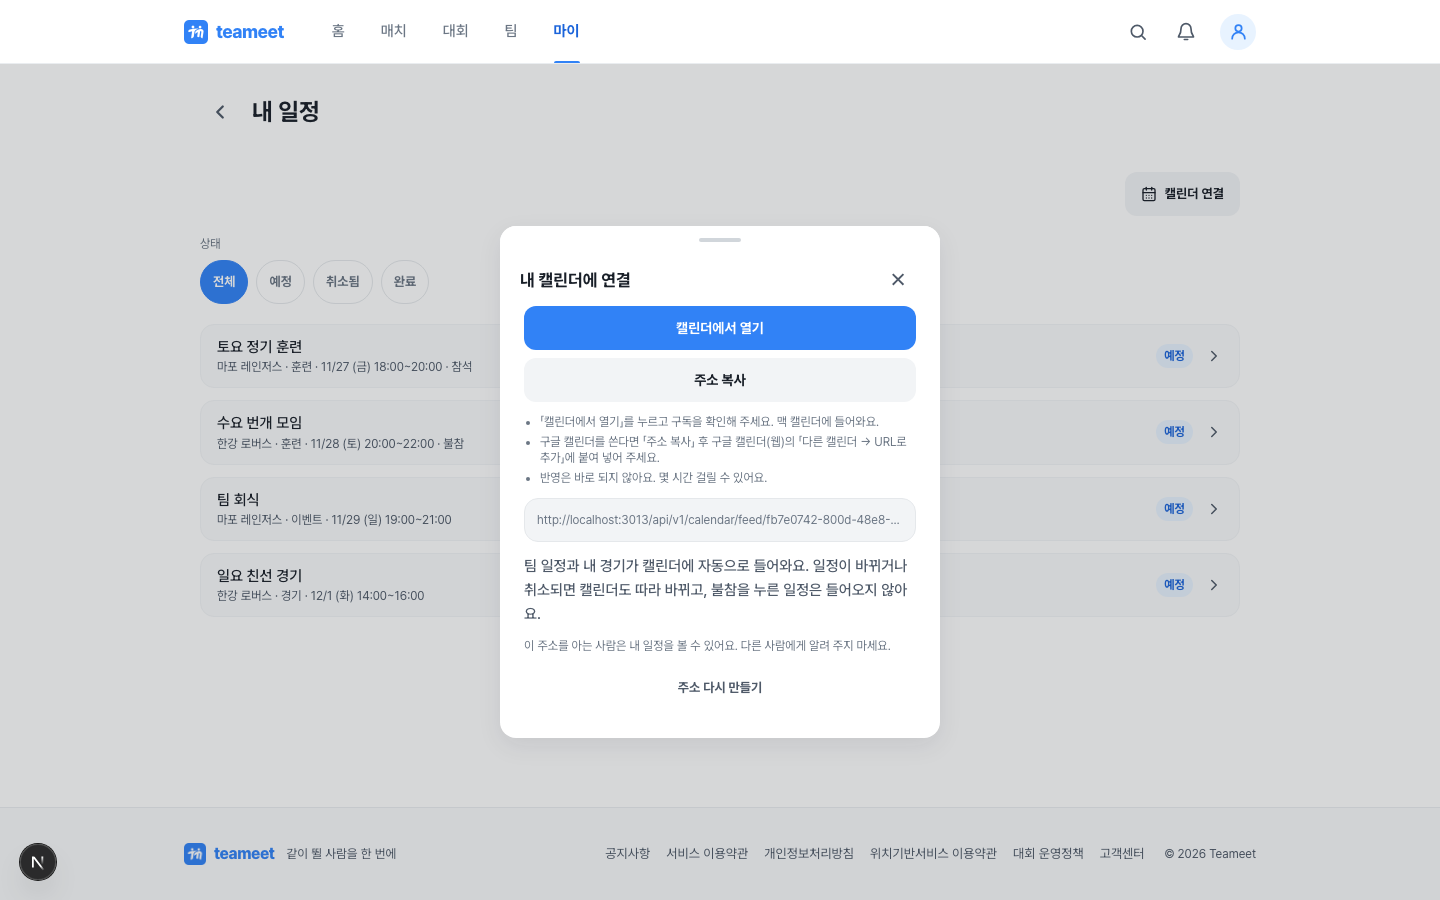
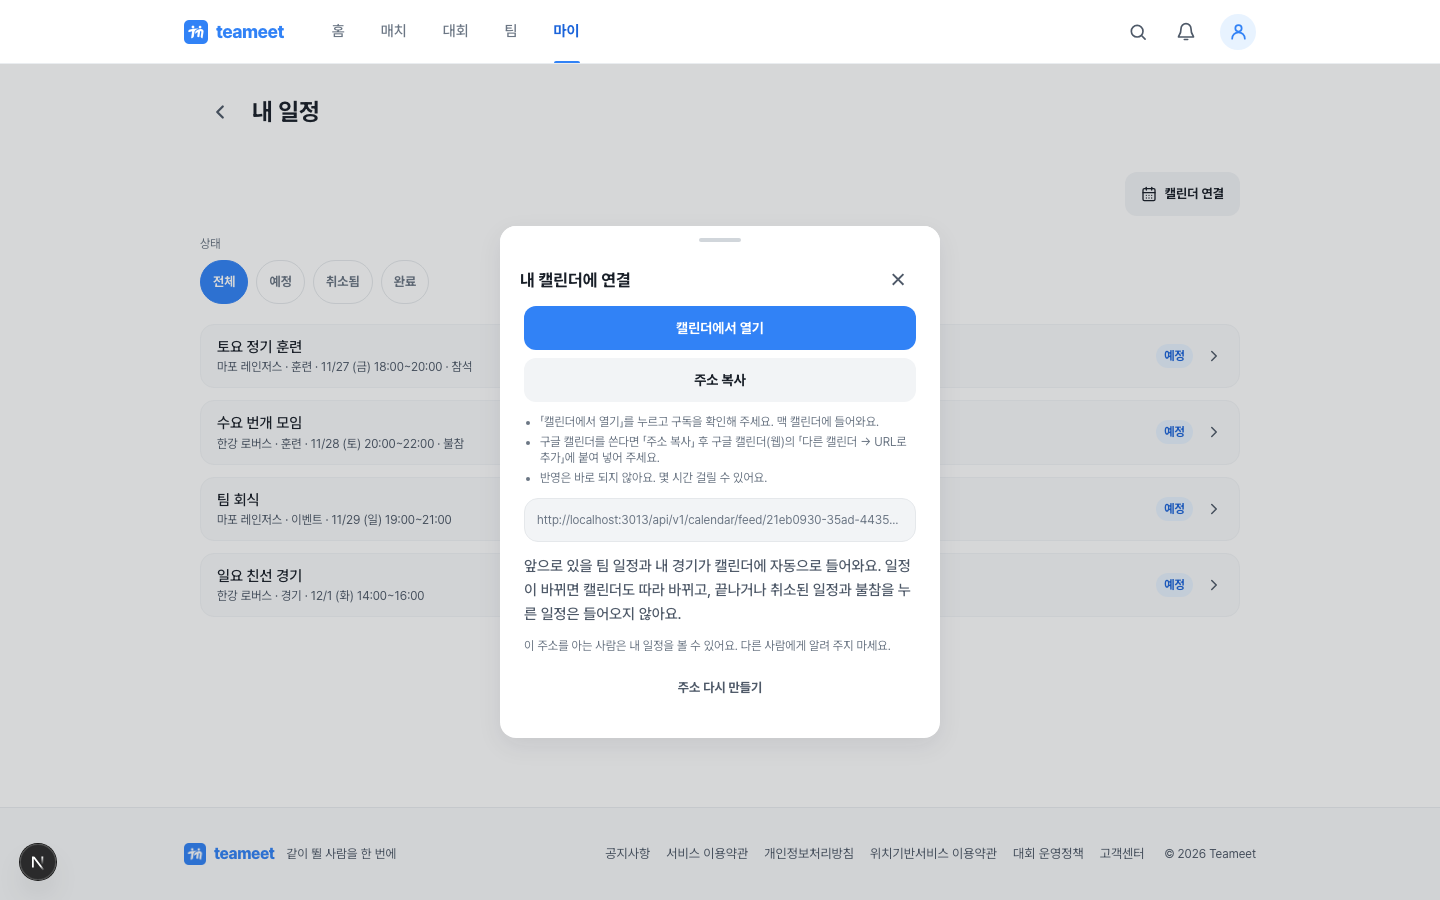
fix: 캘린더 구독은 예정 일정만 넣고, 아이폰 버튼 문구를 「캘린더에서 열기」로 바꾼다
- 구독: state=SCHEDULED 이고 아직 끝나지 않은 팀 일정, 모집 중·마감 상태에서 안 끝난 개인 매치만(완료·취소·끝난 일정은 제외)
- 아이폰·맥 버튼 문구를 「캘린더에서 열기」로 통일(「폰」 단어 제거), 설명 문구 갱신

Changed region(s): [[0.3438, 0.6222, 0.625, 0.6844], [0.5312, 0.56, 0.625, 0.5911]]

diff --git a/apps/v1_api/test/calendar-feed/calendar-feed.integration-spec.ts b/apps/v1_api/test/calendar-feed/calendar-feed.integration-spec.ts
@@ -7,7 +7,7 @@ import { createV1IntegrationApp } from '../integration/integration-app';
 
 const DAY = 24 * 60 * 60 * 1_000;
 
-/** 폰 캘린더 구독: 내 일정만, 불참은 빼고, 취소는 취소로, 주소를 다시 만들면 옛 주소는 못 쓴다. */
+/** 캘린더 구독: 내 일정 중 아직 끝나지 않은 「예정」만, 불참은 빼고, 주소를 다시 만들면 옛 주소는 못 쓴다. */
 describe('캘린더 구독 주소 HTTP/DB 계약', () => {
   let app: INestApplication;
   let cleanup: (() => Promise<void>) | undefined;
@@ -60,11 +60,11 @@ describe('캘린더 구독 주소 HTTP/DB 계약', () => {
     });
 
     const now = Date.now();
-    const make = async (key: string, teamId: string, data: { title: string; startOffsetDays: number; state?: 'SCHEDULED' | 'CANCELLED'; type?: 'TRAINING' | 'EVENT' | 'MATCH'; teamMatchId?: string; cancelReason?: string }) => {
+    const make = async (key: string, teamId: string, data: { title: string; startOffsetDays: number; state?: 'SCHEDULED' | 'CANCELLED' | 'COMPLETED'; durationHours?: number; type?: 'TRAINING' | 'EVENT' | 'MATCH'; teamMatchId?: string; cancelReason?: string }) => {
       const startAt = new Date(now + data.startOffsetDays * DAY);
       sched[key] = (await db.v1TeamSchedule.create({
         data: {
-          teamId, title: data.title, type: data.type ?? 'TRAINING', startAt, endAt: new Date(startAt.getTime() + 2 * 60 * 60 * 1_000),
+          teamId, title: data.title, type: data.type ?? 'TRAINING', startAt, endAt: new Date(startAt.getTime() + (data.durationHours ?? 2) * 60 * 60 * 1_000),
           timezone: 'Asia/Seoul', state: data.state ?? 'SCHEDULED', teamMatchId: data.teamMatchId ?? null, cancelReason: data.cancelReason ?? null,
         },
       })).id;
@@ -77,6 +77,9 @@ describe('캘린더 구독 주소 HTTP/DB 계약', () => {
     });
     await make('training', team1, { title: `팀하나 훈련-${tag}`, startOffsetDays: 2 });
     await make('cancelled', team1, { title: `팀하나 취소-${tag}`, startOffsetDays: 4, state: 'CANCELLED', type: 'EVENT', cancelReason: '우천' });
+    await make('completed', team1, { title: `팀하나 완료-${tag}`, startOffsetDays: -1, state: 'COMPLETED' });
+    await make('endedScheduled', team1, { title: `팀하나 지난예정-${tag}`, startOffsetDays: -3 });
+    await make('inProgress', team1, { title: `팀하나 진행중-${tag}`, startOffsetDays: -30 / (24 * 60), durationHours: 3 });
     await make('notGoing', team1, { title: `팀하나 불참-${tag}`, startOffsetDays: 5 });
     await make('far', team1, { title: `팀하나 먼미래-${tag}`, startOffsetDays: 400 });
     await make('match', team1, { title: `팀하나 경기-${tag}`, startOffsetDays: 3, type: 'MATCH', teamMatchId: teamMatch.id });
@@ -127,7 +130,7 @@ describe('캘린더 구독 주소 HTTP/DB 계약', () => {
     await request(app.getHttpServer()).get('/api/v1/me/calendar-feed').expect(401);
   });
 
-  it('로그인 없이 구독 주소로 읽으면 내 일정만 들어 있다: 불참·범위 밖·다른 사람 일정은 빠지고 취소는 취소로 남는다', async () => {
+  it('로그인 없이 구독 주소로 읽으면 내 예정 일정만 들어 있다: 불참·취소·완료·끝난 예정·범위 밖·다른 사람 일정은 빠진다', async () => {
     const { feedUrl } = (await as(userA).post('/me/calendar-feed').expect(201)).body.data;
     const res = await readFeed(feedUrl).expect(200);
     expect(res.headers['content-type']).toContain('text/calendar');
@@ -139,9 +142,12 @@ describe('캘린더 구독 주소 HTTP/DB 계약', () => {
     expect(ics).toContain(`UID:schedule-${sched.training}@teameet.co.kr`);
     expect(ics).not.toContain(`팀하나 불참-${tag}`);
     expect(ics).not.toContain(`팀하나 먼미래-${tag}`);
-    const cancelled = ics.split('BEGIN:VEVENT').find((block) => block.includes(`schedule-${sched.cancelled}@`));
-    expect(cancelled).toContain('STATUS:CANCELLED');
-    expect(cancelled).toContain('우천');
+    // 예정만 들어간다 — 취소·완료·끝난 예정은 빠지고, 진행 중인 일정은 들어간다.
+    expect(ics).not.toContain(`팀하나 취소-${tag}`);
+    expect(ics).not.toContain('STATUS:CANCELLED');
+    expect(ics).not.toContain(`팀하나 완료-${tag}`);
+    expect(ics).not.toContain(`팀하나 지난예정-${tag}`);
+    expect(ics).toContain(`팀하나 진행중-${tag}`);
     // 팀 매치 일정은 경기장을 장소로 싣는다.
     expect(ics.split('BEGIN:VEVENT').find((block) => block.includes(`schedule-${sched.match}@`))).toContain('LOCATION:마포 풋살장');
     // 참가 확정한 개인 매치만 들어간다(취소한 참가는 제외).

diff --git a/apps/v1_api/src/calendar-feed/calendar-feed.service.ts b/apps/v1_api/src/calendar-feed/calendar-feed.service.ts
@@ -1,5 +1,5 @@
 import { Injectable, NotFoundException, ServiceUnavailableException } from '@nestjs/common';
-import { Prisma, V1AttendanceStatus, V1ScheduleType } from '@prisma/client';
+import { Prisma, V1AttendanceStatus, V1ScheduleState, V1ScheduleType } from '@prisma/client';
 import type { V1AuthUser } from '../auth/v1-auth-user';
 import { PrismaService } from '../prisma/prisma.service';
 import { MATCH_SCHEDULE_DEFAULT_DURATION_MS } from '../team-schedules/team-match-schedule';
@@ -8,9 +8,10 @@ import { isUsableAccessTokenSecret, issueAccessToken, parseAccessToken } from '.
 import { buildIcs, type IcsEvent } from './ics';
 
 const DAY_MS = 24 * 60 * 60 * 1_000;
-/** 구독 캘린더에 싣는 범위: 지난 2주 ~ 앞으로 6개월. */
-const FEED_PAST_MS = 14 * DAY_MS;
+/** 구독 캘린더에는 아직 끝나지 않은 「예정」만, 앞으로 6개월 안까지 싣는다(2026-11-24). */
 const FEED_FUTURE_MS = 180 * DAY_MS;
+/** 끝 시각이 없는 개인 매치는 시작 후 이 시간까지 진행 중으로 본다. */
+const OPEN_ENDED_MATCH_GRACE_MS = 2 * 60 * 60 * 1_000;
 const FEED_MAX_EVENTS = 1_000;
 const LAST_USED_TOUCH_MS = 10 * 60 * 1_000;
 const CALENDAR_NAME = 'Teameet';
@@ -112,7 +113,6 @@ export class CalendarFeedService {
   // ── 일정 모으기 ────────────────────────────────────────────────────────────
 
   private async feedEvents(userId: string, now: Date): Promise<IcsEvent[]> {
-    const from = new Date(now.getTime() - FEED_PAST_MS);
     const to = new Date(now.getTime() + FEED_FUTURE_MS);
 
     const memberships = await this.prisma.v1TeamMembership.findMany({
@@ -128,7 +128,10 @@ export class CalendarFeedService {
         : await this.prisma.v1TeamSchedule.findMany({
             where: {
               teamId: { in: teamIds },
-              startAt: { gte: from, lte: to },
+              // 「예정」이고 아직 끝나지 않은 것만 — 진행 중인 일정은 넣고, 끝났거나 완료·취소된 일정은 뺀다.
+              state: V1ScheduleState.SCHEDULED,
+              endAt: { gte: now },
+              startAt: { lte: to },
               AND: [await visibleTeamMatchScheduleWhere(this.prisma, teamIds)],
               // 불참을 누른 일정은 내 캘린더에 넣지 않는다. 응답이 없거나 대기 중이면 넣는다.
               NOT: { attendance: { some: { userId, status: V1AttendanceStatus.NOT_GOING } } },
@@ -140,8 +143,10 @@ export class CalendarFeedService {
     const matches = await this.prisma.v1Match.findMany({
       where: {
         deletedAt: null,
-        startAt: { gte: from, lte: to },
-        status: { not: 'archived' },
+        startAt: { lte: to },
+        // 모집 중·마감된 개인 매치 가운데 아직 끝나지 않은 것만(취소·완료·보관은 뺀다).
+        status: { in: ['recruiting', 'closed'] },
+        OR: [{ endAt: { gte: now } }, { endAt: null, startAt: { gte: new Date(now.getTime() - OPEN_ENDED_MATCH_GRACE_MS) } }],
         participants: { some: { userId, role: 'participant', status: { in: ['active', 'completed'] } } },
       },
       select: { id: true, title: true, placeName: true, placeAddress: true, startAt: true, endAt: true, status: true, updatedAt: true },
@@ -161,7 +166,6 @@ export class CalendarFeedService {
       location: [match.placeName, match.placeAddress].filter(Boolean).join(' ') || null,
       description: `개인 매치\n자세히 보기: ${origin}/matches/${match.id}`,
       url: `${origin}/matches/${match.id}`,
-      cancelled: match.status === 'cancelled',
     }));
 
     // 팀이 둘 이상이면 어느 팀 일정인지 한눈에 보이게 제목 앞에 팀 이름을 붙인다.

diff --git a/apps/v1_web/src/components/team-schedules/calendar-connect-sheet.test.tsx b/apps/v1_web/src/components/team-schedules/calendar-connect-sheet.test.tsx
@@ -53,17 +53,17 @@ describe('내 일정 — 캘린더 연결', () => {
     expect(api.v1Post).toHaveBeenCalledWith('/me/calendar-feed');
     expect(screen.queryByRole('button', { name: '캘린더 주소 만들기' })).toBeNull();
     // 버튼 → 안내 → 주소 → 설명 순서(설명이 맨 위에서 버튼을 밀어내지 않는다).
-    const description = screen.getByText(/팀 일정과 내 경기가 캘린더에 자동으로 들어와요/);
+    const description = screen.getByText(/앞으로 있을 팀 일정과 내 경기가 캘린더에 자동으로 들어와요/);
     expect(copy.compareDocumentPosition(description) & Node.DOCUMENT_POSITION_FOLLOWING).toBeTruthy();
     expect(screen.getByLabelText('캘린더 구독 주소')).toHaveValue(connectedFeed.feedUrl);
   });
 
-  it('아이폰(앱·브라우저): 「폰 캘린더에서 열기」(webcal)와 「주소 복사」', async () => {
+  it('아이폰(앱·브라우저): 「캘린더에서 열기」(webcal)와 「주소 복사」', async () => {
     shell.value = 'ios';
     api.v1Get.mockResolvedValue(connectedFeed);
     renderButton();
     openSheet();
-    expect(await screen.findByRole('link', { name: '폰 캘린더에서 열기' })).toHaveAttribute('href', connectedFeed.webcalUrl);
+    expect(await screen.findByRole('link', { name: '캘린더에서 열기' })).toHaveAttribute('href', connectedFeed.webcalUrl);
     expect(screen.queryByRole('link', { name: /^구글 캘린더에 추가/ })).toBeNull();
     expect(screen.getByRole('button', { name: '주소 복사' })).toBeInTheDocument();
     expect(screen.getByText(/아래로 당기면 바로 새로고침/)).toBeInTheDocument();
@@ -78,7 +78,6 @@ describe('내 일정 — 캘린더 연결', () => {
       openSheet();
       expect(await screen.findByRole('link', { name: '캘린더에서 열기' })).toHaveAttribute('href', connectedFeed.webcalUrl);
       expect(screen.queryByRole('link', { name: '구글 캘린더에 추가' })).toBeNull();
-      expect(screen.queryByRole('link', { name: '폰 캘린더에서 열기' })).toBeNull();
       expect(screen.getByRole('button', { name: '주소 복사' })).toBeInTheDocument();
       expect(screen.getByText(/맥 캘린더에 들어와요/)).toBeInTheDocument();
     } finally {
@@ -86,7 +85,7 @@ describe('내 일정 — 캘린더 연결', () => {
     }
   });
 
-  it('갤럭시(안드로이드 앱): 「구글 캘린더에 추가」와 「주소 복사」, 폰 캘린더 버튼은 없다', async () => {
+  it('갤럭시(안드로이드 앱): 「구글 캘린더에 추가」와 「주소 복사」, 「캘린더에서 열기」(webcal)는 없다', async () => {
     shell.value = 'android';
     api.v1Get.mockResolvedValue(connectedFeed);
     renderButton();
@@ -96,7 +95,7 @@ describe('내 일정 — 캘린더 연결', () => {
     expect(google).toHaveAttribute('target', '_blank');
     // 새 창으로 열리는 링크라는 걸 스크린리더에도 알린다.
     expect(google).toHaveAccessibleName('구글 캘린더에 추가 (새 창으로 열려요)');
-    expect(screen.queryByRole('link', { name: '폰 캘린더에서 열기' })).toBeNull();
+    expect(screen.queryByRole('link', { name: '캘린더에서 열기' })).toBeNull();
     expect(screen.getByRole('button', { name: '주소 복사' })).toBeInTheDocument();
     expect(screen.getByText(/갤럭시 캘린더에도 보여요/)).toBeInTheDocument();
   });

diff --git a/apps/v1_web/src/components/team-schedules/calendar-connect-sheet.tsx b/apps/v1_web/src/components/team-schedules/calendar-connect-sheet.tsx
@@ -50,7 +50,7 @@ async function copyText(text: string): Promise<boolean> {
 /** 기기별 안내 — 버튼 바로 아래에 둔다. 아이폰·맥은 캘린더 앱이 구독을 바로 받고, 갤럭시는 구글 캘린더(웹)를 거친다. */
 const PLATFORM_HELP: Record<CalendarPlatform, string[]> = {
   ios: [
-    '「폰 캘린더에서 열기」를 누르고 구독을 확인해 주세요.',
+    '「캘린더에서 열기」를 누르고 구독을 확인해 주세요.',
     '반영은 바로 되지 않아요. 몇 시간 걸릴 수 있어요. 캘린더 목록에서 아래로 당기면 바로 새로고침돼요.',
   ],
   mac: [
@@ -109,7 +109,7 @@ export function CalendarConnectSheet({ onClose }: { onClose: () => void }) {
   const primary =
     platform === 'ios' || platform === 'mac' ? (
       <a className="tm-btn tm-btn-md tm-btn-primary tm-btn-block" href={feed.data?.webcalUrl ?? undefined}>
-        {platform === 'ios' ? '폰 캘린더에서 열기' : '캘린더에서 열기'}
+        캘린더에서 열기
       </a>
     ) : (
       <a
@@ -148,7 +148,7 @@ export function CalendarConnectSheet({ onClose }: { onClose: () => void }) {
                 onFocus={(event) => event.currentTarget.select()}
               />
               <p className="tm-text-body">
-                팀 일정과 내 경기가 캘린더에 자동으로 들어와요. 일정이 바뀌거나 취소되면 캘린더도 따라 바뀌고, 불참을 누른 일정은 들어오지 않아요.
+                앞으로 있을 팀 일정과 내 경기가 캘린더에 자동으로 들어와요. 일정이 바뀌면 캘린더도 따라 바뀌고, 끝나거나 취소된 일정과 불참을 누른 일정은 들어오지 않아요.
               </p>
               <p className="tm-text-caption tm-calendar-connect-warning">
                 이 주소를 아는 사람은 내 일정을 볼 수 있어요. 다른 사람에게 알려 주지 마세요.

diff --git a/docs/api/domains/calendar-feed.md b/docs/api/domains/calendar-feed.md
@@ -11,10 +11,10 @@
 | GET | `/teams/:teamId/schedules/:scheduleId/calendar.ics` | 팀원 | 일정 한 건 파일 내려받기("캘린더에 추가"). 팀원이 아니면 404. |
 
 ## 무엇이 들어가나
-- 내 팀(활성 팀원인 팀)의 일정: 팀 훈련·모임, 팀 매치, 리그 경기, 대회 진출 경기(모두 팀 일정 테이블에 있다). 지난 2주 ~ 앞으로 6개월, 최대 1,000건.
-- 내가 **참가 확정**한 개인 매치(`participant` 가 `active`·`completed`).
+- 내 팀(활성 팀원인 팀)의 일정: 팀 훈련·모임, 팀 매치, 리그 경기, 대회 진출 경기(모두 팀 일정 테이블에 있다). **아직 끝나지 않은 「예정」만**(진행 중 포함), 지금부터 앞으로 6개월, 최대 1,000건. 완료·취소된 일정과 이미 끝난 일정은 넣지 않는다(2026-11-24).
+- 내가 **참가 확정**한 개인 매치(`participant` 가 `active`·`completed`) 중 모집 중·마감 상태이고 아직 끝나지 않은 것.
 - **불참(NOT_GOING)을 누른 일정은 뺀다.** 응답이 없거나 대기·미정이면 넣는다. 대회·리그 경기는 참석 응답이 없어 전부 들어간다.
-- 취소된 일정은 빼지 않고 `STATUS:CANCELLED` 로 남긴다(이미 캘린더에 들어간 일정이 취소로 바뀐다).
+- 취소된 일정은 구독에서 **빠진다** — 이미 캘린더에 들어간 일정은 다음 갱신 때 캘린더에서 사라진다. 일정 한 건 내려받기(`calendar.ics`)는 그 일정의 상태를 그대로 싣는다(취소면 `STATUS:CANCELLED`).
 - 시각이 아직 없는 대회 경기는 일정 행이 없어 나오지 않는다. 시간이 정해지면 나타난다.
 - 팀이 둘 이상이면 제목 앞에 `[팀 이름]` 을 붙인다.
 

diff --git a/.changeset/calendar-mac-apple.md b/.changeset/calendar-mac-apple.md
@@ -1,5 +1,6 @@
 ---
+"v1_api": patch
 "v1_web": patch
 ---
 
-맥(사파리·크롬)에서 캘린더 연결을 열면 구글 캘린더 대신 「캘린더에서 열기」로 맥 캘린더에 바로 구독돼요. 윈도우·리눅스 등 그 밖의 컴퓨터는 지금처럼 구글 캘린더 안내예요.
+캘린더 연결을 다듬었어요. 캘린더 구독에는 아직 끝나지 않은 「예정」 일정만 들어가요(완료·취소·끝난 일정은 들어가지 않고, 이미 들어간 취소 일정은 다음 갱신 때 사라져요). 아이폰과 맥의 버튼은 「캘린더에서 열기」로 통일하고, 맥(사파리·크롬)에서도 구글 캘린더 대신 캘린더 앱으로 바로 구독돼요. 윈도우·리눅스 등 그 밖의 컴퓨터는 지금처럼 구글 캘린더 안내예요.
